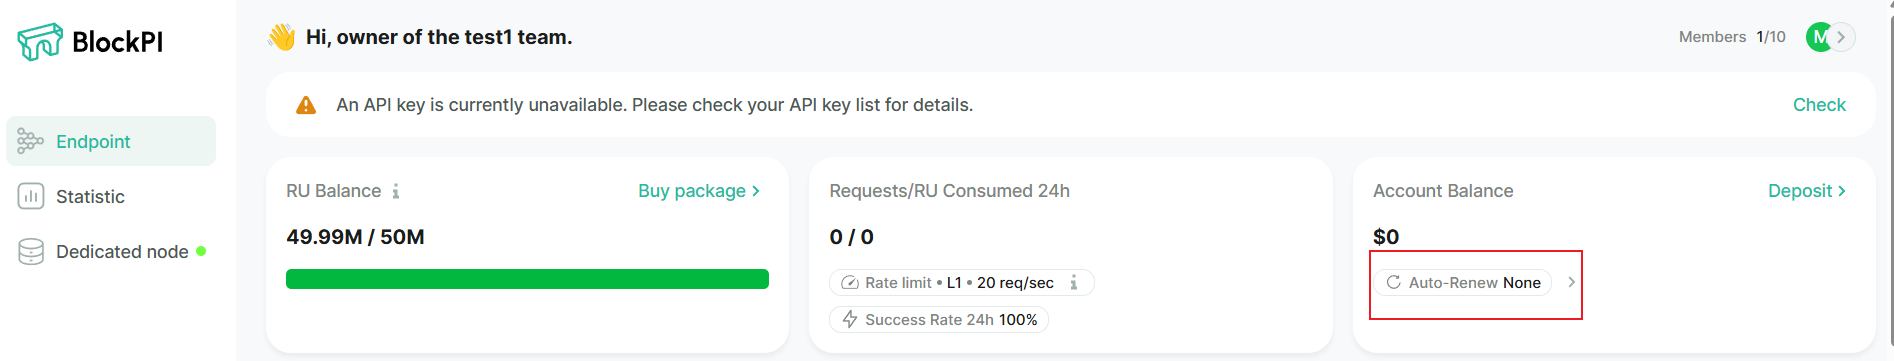
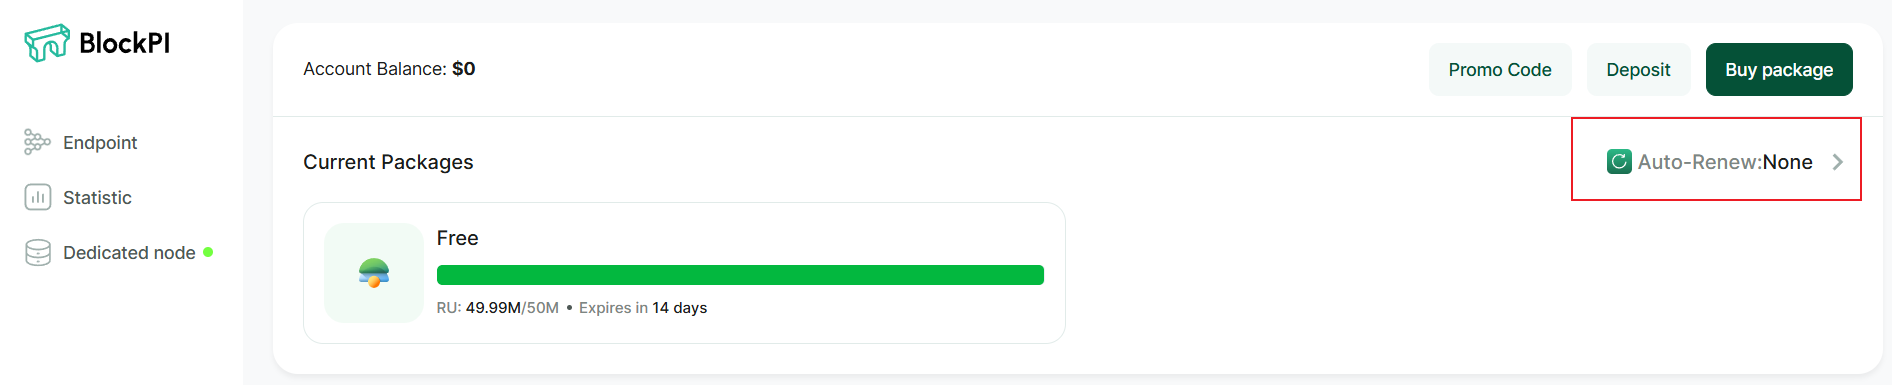
GITBOOK-177: SUI archive

diff --git a/basic-tutorials/api-key/customize-endpoint-advanced-features.md b/basic-tutorials/api-key/customize-endpoint-advanced-features.md
@@ -36,7 +36,7 @@ BlockPI now provides Bundler Service for Account Abstraction users on **OP Mainn
 
 To customize it, go to the BlockPI [dashboard](https://dashboard.blockpi.io), click the endpoint which has the 'ERC-4337' mark. You will be directed to the subpage of the endpoint. (If you do not have any endpoint, please refer to the [Generate API Key](generate-an-api-key.md) page to generate a private endpoint).&#x20;
 
-<figure><img src="../../.gitbook/assets/image (1) (1).png" alt=""><figcaption></figcaption></figure>
+<figure><img src="../../.gitbook/assets/image (1) (1) (1).png" alt=""><figcaption></figcaption></figure>
 
 On the subpage of the endpoint, there is the 'AA Service' section, which presents you with five different options to choose.&#x20;
 